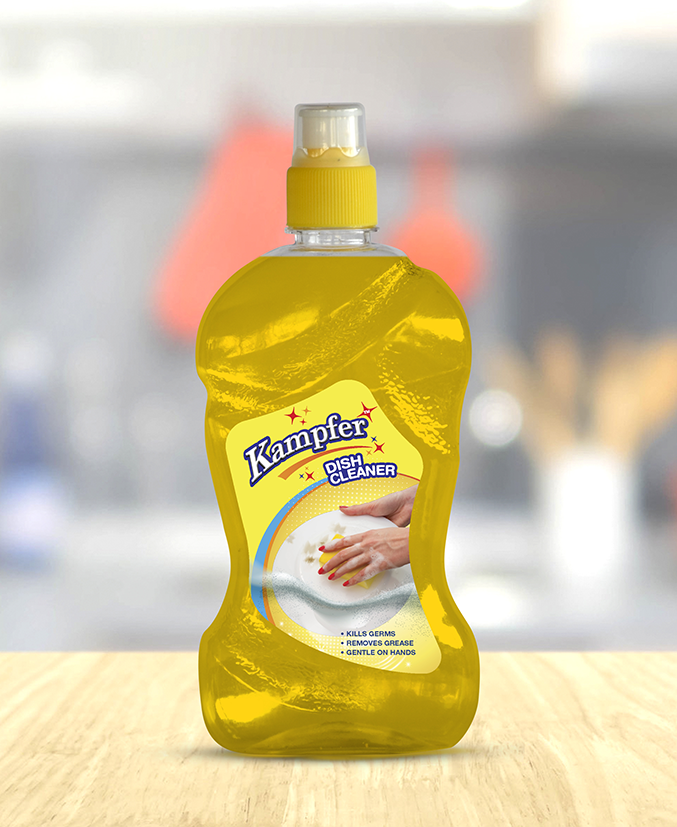
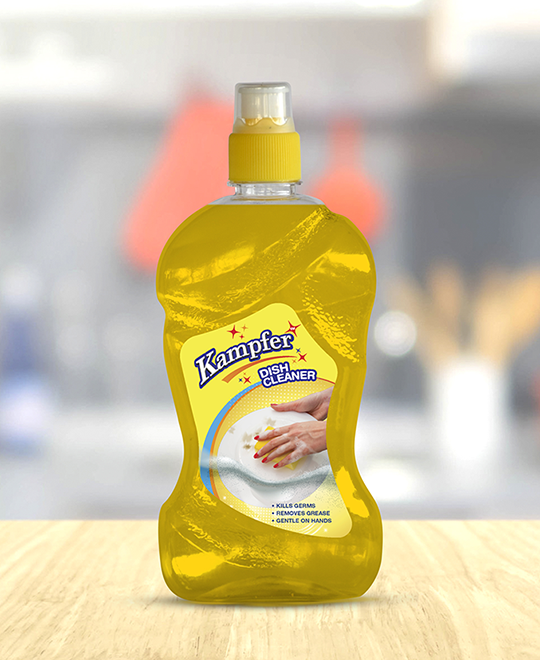
added products and some sizing

Changed region(s): [[0.3556, 0.4848, 0.5926, 0.6061], [0.5037, 0.7576, 0.5926, 0.8182], [0.4148, 0.6061, 0.4444, 0.6364]]

diff --git a/TestProject-master/ump_products.html b/TestProject-master/ump_products.html
@@ -58,9 +58,9 @@
                   <h2>Service Detail</h2>
                   <nav aria-label="breadcrumb">
                     <ol class="breadcrumb">
-                       <li class="breadcrumb-item"><a href="index-2.html" title="Home">Home</a></li>
-                      <li class="breadcrumb-item"><a href="services.html" title="Services">Services</a></li>
-                      <li class="breadcrumb-item active" aria-current="page">Service Detail</li>
+                       <li class="breadcrumb-item"><a href="Index.html" title="Home">Home</a></li>
+                      <li class="breadcrumb-item"><a href="ump_products.html" title="Services">Products</a></li>
+                      <li class="breadcrumb-item active" aria-current="page">Product Details</li>
                     </ol>
                   </nav>
                 </div>
@@ -72,7 +72,7 @@
               <h3 class="d-none">heading</h3>
               <div class="col-lg-12 col-md-12 col-sm-12">
               <div class="row">
-                <div class="col-lg-6 col-md-6 col-sm-12 col-xs-12 img-area"> <img src="img/service_detail.jpg" alt="About"> </div>
+                <div class="col-lg-6 col-md-6 col-sm-12 col-xs-12 img-area"> <img src="Images/Dish Washer.png" alt="About" class="product_img_style"> </div>
                 <div class="col-lg-6 col-md-6 col-sm-12 col-xs-12 content-area">
                   <h5>Providing best business solution for growing your business</h5>
                   <p>Lorem Ipsum has been the industry's standard dummy text ever since the 1500s, when an unknown printer took a galley of type and scrambled it to make a type specimen book. More recently with desktop publishing software like Aldus PageMaker including versions of Lorem Ipsum.</p>
@@ -87,7 +87,82 @@
               <h3 class="d-none">heading</h3>
               <div class="col-lg-12 col-md-12 col-sm-12">
               <div class="row">
-                <div class="col-lg-6 col-md-6 col-sm-12 col-xs-12 img-area"> <img src="img/service_detail.jpg" alt="About"> </div>
+                <div class="col-lg-6 col-md-6 col-sm-12 col-xs-12 img-area"> <img src="Images/Floor Cleaner_Lavender.png" alt="About" class="product_img_style"> </div>
+                <div class="col-lg-6 col-md-6 col-sm-12 col-xs-12 content-area">
+                  <h5>Providing best business solution for growing your business</h5>
+                  <p>Lorem Ipsum has been the industry's standard dummy text ever since the 1500s, when an unknown printer took a galley of type and scrambled it to make a type specimen book. More recently with desktop publishing software like Aldus PageMaker including versions of Lorem Ipsum.</p>
+                  <p>Lorem Ipsum has been the industry's standard dummy text ever since the 1500s, when an unknown printer took a galley of type and scrambled it to make a type specimen book.</p>
+                  <p>When an unknown printer took a galley of type and scrambled it to make a type specimen book. More recently with desktop publishing software like Aldus PageMaker including versions of Lorem Ipsum</p>
+                </div>
+             </div></div>
+            </div>
+          </section>
+          <section id="services-top">
+            <div class="container">
+              <h3 class="d-none">heading</h3>
+              <div class="col-lg-12 col-md-12 col-sm-12">
+              <div class="row">
+                <div class="col-lg-6 col-md-6 col-sm-12 col-xs-12 img-area"> <img src="Images/Floor Cleaner_Lemon.png" alt="About" class="product_img_style"> </div>
+                <div class="col-lg-6 col-md-6 col-sm-12 col-xs-12 content-area">
+                  <h5>Providing best business solution for growing your business</h5>
+                  <p>Lorem Ipsum has been the industry's standard dummy text ever since the 1500s, when an unknown printer took a galley of type and scrambled it to make a type specimen book. More recently with desktop publishing software like Aldus PageMaker including versions of Lorem Ipsum.</p>
+                  <p>Lorem Ipsum has been the industry's standard dummy text ever since the 1500s, when an unknown printer took a galley of type and scrambled it to make a type specimen book.</p>
+                  <p>When an unknown printer took a galley of type and scrambled it to make a type specimen book. More recently with desktop publishing software like Aldus PageMaker including versions of Lorem Ipsum</p>
+                </div>
+             </div></div>
+            </div>
+          </section>
+          <section id="services-top">
+            <div class="container">
+              <h3 class="d-none">heading</h3>
+              <div class="col-lg-12 col-md-12 col-sm-12">
+              <div class="row">
+                <div class="col-lg-6 col-md-6 col-sm-12 col-xs-12 img-area"> <img src="Images/Floor Cleaner_Rose.png" alt="About" class="product_img_style"> </div>
+                <div class="col-lg-6 col-md-6 col-sm-12 col-xs-12 content-area">
+                  <h5>Providing best business solution for growing your business</h5>
+                  <p>Lorem Ipsum has been the industry's standard dummy text ever since the 1500s, when an unknown printer took a galley of type and scrambled it to make a type specimen book. More recently with desktop publishing software like Aldus PageMaker including versions of Lorem Ipsum.</p>
+                  <p>Lorem Ipsum has been the industry's standard dummy text ever since the 1500s, when an unknown printer took a galley of type and scrambled it to make a type specimen book.</p>
+                  <p>When an unknown printer took a galley of type and scrambled it to make a type specimen book. More recently with desktop publishing software like Aldus PageMaker including versions of Lorem Ipsum</p>
+                </div>
+             </div></div>
+            </div>
+          </section>
+          <section id="services-top">
+            <div class="container">
+              <h3 class="d-none">heading</h3>
+              <div class="col-lg-12 col-md-12 col-sm-12">
+              <div class="row">
+                <div class="col-lg-6 col-md-6 col-sm-12 col-xs-12 img-area"> <img src="Images/Glass Cleaner.png" alt="About" class="product_img_style"> </div>
+                <div class="col-lg-6 col-md-6 col-sm-12 col-xs-12 content-area">
+                  <h5>Providing best business solution for growing your business</h5>
+                  <p>Lorem Ipsum has been the industry's standard dummy text ever since the 1500s, when an unknown printer took a galley of type and scrambled it to make a type specimen book. More recently with desktop publishing software like Aldus PageMaker including versions of Lorem Ipsum.</p>
+                  <p>Lorem Ipsum has been the industry's standard dummy text ever since the 1500s, when an unknown printer took a galley of type and scrambled it to make a type specimen book.</p>
+                  <p>When an unknown printer took a galley of type and scrambled it to make a type specimen book. More recently with desktop publishing software like Aldus PageMaker including versions of Lorem Ipsum</p>
+                </div>
+             </div></div>
+            </div>
+          </section>
+          <section id="services-top">
+            <div class="container">
+              <h3 class="d-none">heading</h3>
+              <div class="col-lg-12 col-md-12 col-sm-12">
+              <div class="row">
+                <div class="col-lg-6 col-md-6 col-sm-12 col-xs-12 img-area"> <img src="Images/Toilet Cleaner.png" alt="About" class="product_img_style"> </div>
+                <div class="col-lg-6 col-md-6 col-sm-12 col-xs-12 content-area">
+                  <h5>Providing best business solution for growing your business</h5>
+                  <p>Lorem Ipsum has been the industry's standard dummy text ever since the 1500s, when an unknown printer took a galley of type and scrambled it to make a type specimen book. More recently with desktop publishing software like Aldus PageMaker including versions of Lorem Ipsum.</p>
+                  <p>Lorem Ipsum has been the industry's standard dummy text ever since the 1500s, when an unknown printer took a galley of type and scrambled it to make a type specimen book.</p>
+                  <p>When an unknown printer took a galley of type and scrambled it to make a type specimen book. More recently with desktop publishing software like Aldus PageMaker including versions of Lorem Ipsum</p>
+                </div>
+             </div></div>
+            </div>
+          </section>
+          <section id="services-top">
+            <div class="container">
+              <h3 class="d-none">heading</h3>
+              <div class="col-lg-12 col-md-12 col-sm-12">
+              <div class="row">
+                <div class="col-lg-6 col-md-6 col-sm-12 col-xs-12 img-area"> <img src="Images/Glass Cleaner.png" alt="About" class="product_img_style"> </div>
                 <div class="col-lg-6 col-md-6 col-sm-12 col-xs-12 content-area">
                   <h5>Providing best business solution for growing your business</h5>
                   <p>Lorem Ipsum has been the industry's standard dummy text ever since the 1500s, when an unknown printer took a galley of type and scrambled it to make a type specimen book. More recently with desktop publishing software like Aldus PageMaker including versions of Lorem Ipsum.</p>

diff --git a/TestProject-master/Content/ump_homepagestyle.css b/TestProject-master/Content/ump_homepagestyle.css
@@ -344,3 +344,11 @@ height:60px;
         border: 0 
    }
 }
+
+section#services-top .img-area {
+    width: 100%;
+    position: relative;
+}
+.content-area {
+    padding-left: 30px;
+}
